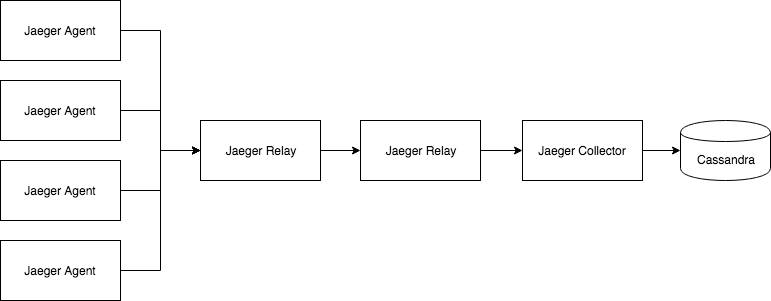
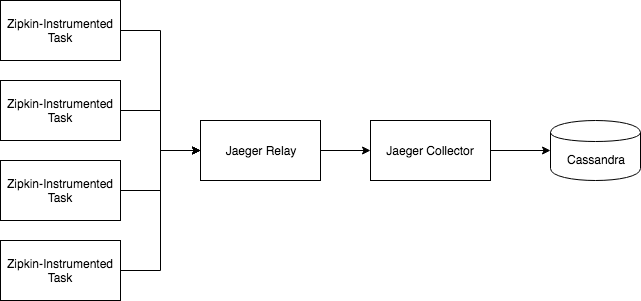
Refine README a bit more

diff --git a/cmd/relay/README.md b/cmd/relay/README.md
@@ -15,19 +15,38 @@ The relay provides several features:
 - Support for exporting data over a number of protocols, currently:
   - Jaeger (Thrift encoding over HTTP)
   - Jaeger (Thrift encoding over tChannel)
-- Support for exporting to multiple destinations
-- Support for in-memory bounded buffer per destination
-- Detailed telemetry including metrics for each stage in the pipeline (E.g. exposed via prometheus endpoint)
-- Many configuration options to build a custom ingestion pipeline with desired behaviors
+- Support for exporting to multiple destinations, with separate in-memory bounded
+  buffer per destination. Option to retry in case of failure to export (e.g. remote
+  endpoint unavailable), with configurable back-off delay
+- Detailed telemetry including metrics for each stage in the pipeline (E.g. exposed via
+  prometheus endpoint)
+- Many configuration options to build a custom data pipeline with desired behaviors
 
 ## Example Configurations
+Below we show a few configurations possible. The module itself
+is quite flexible and configuration options allow for many more
+flexible data pipelines to be configured.
 
 ### Configuration 1 : Agents -> Relay -> Collector
 ![Configuration 1 : Agents -> Relay -> Collector](img/relay-config-1.png)
 
-### Configuration 2 : Agents -> Relay -> Relay -> Collector
-![Configuration 2 : Agents -> Relay -> Relay -> Collector](img/relay-config-2.png)
+### Configuration 2 : Zipkin Tasks -> Relay -> Collector
+The relay is capable of receiving spans in zipkin format, thus
+pretending to be `Zipkin collector` and internally adapting to
+Jaeger format before sending out to the Jaeger collector.
+![Configuration 2 : Zipkin Tasks -> Relay -> Collector](img/relay-config-2.png)
 
-### Configuration 3 : Agents -> Relay -> Multiple Endpoints
-![Configuration 2 : Agents -> Relay -> Multiple Endpoints](img/relay-config-3.png)
+### Configuration 3 : Agents -> Relay -> Relay -> Collector
+![Configuration 3 : Agents -> Relay -> Relay -> Collector](img/relay-config-3.png)
+
+### Configuration 4 : Agents -> Relay -> Multiple Endpoints
+![Configuration 4 : Agents -> Relay -> Multiple Endpoints](img/relay-config-4.png)
+
+## Roadmap
+
+There are many features that can be added into the relay:
+- Support receive and export in the proto model over grpc
+- Support for per export target filtering
+- Support other exporters (e.g. S3, Kinesis, etc.)
+- Support for mutual TLS with remote destination
 
